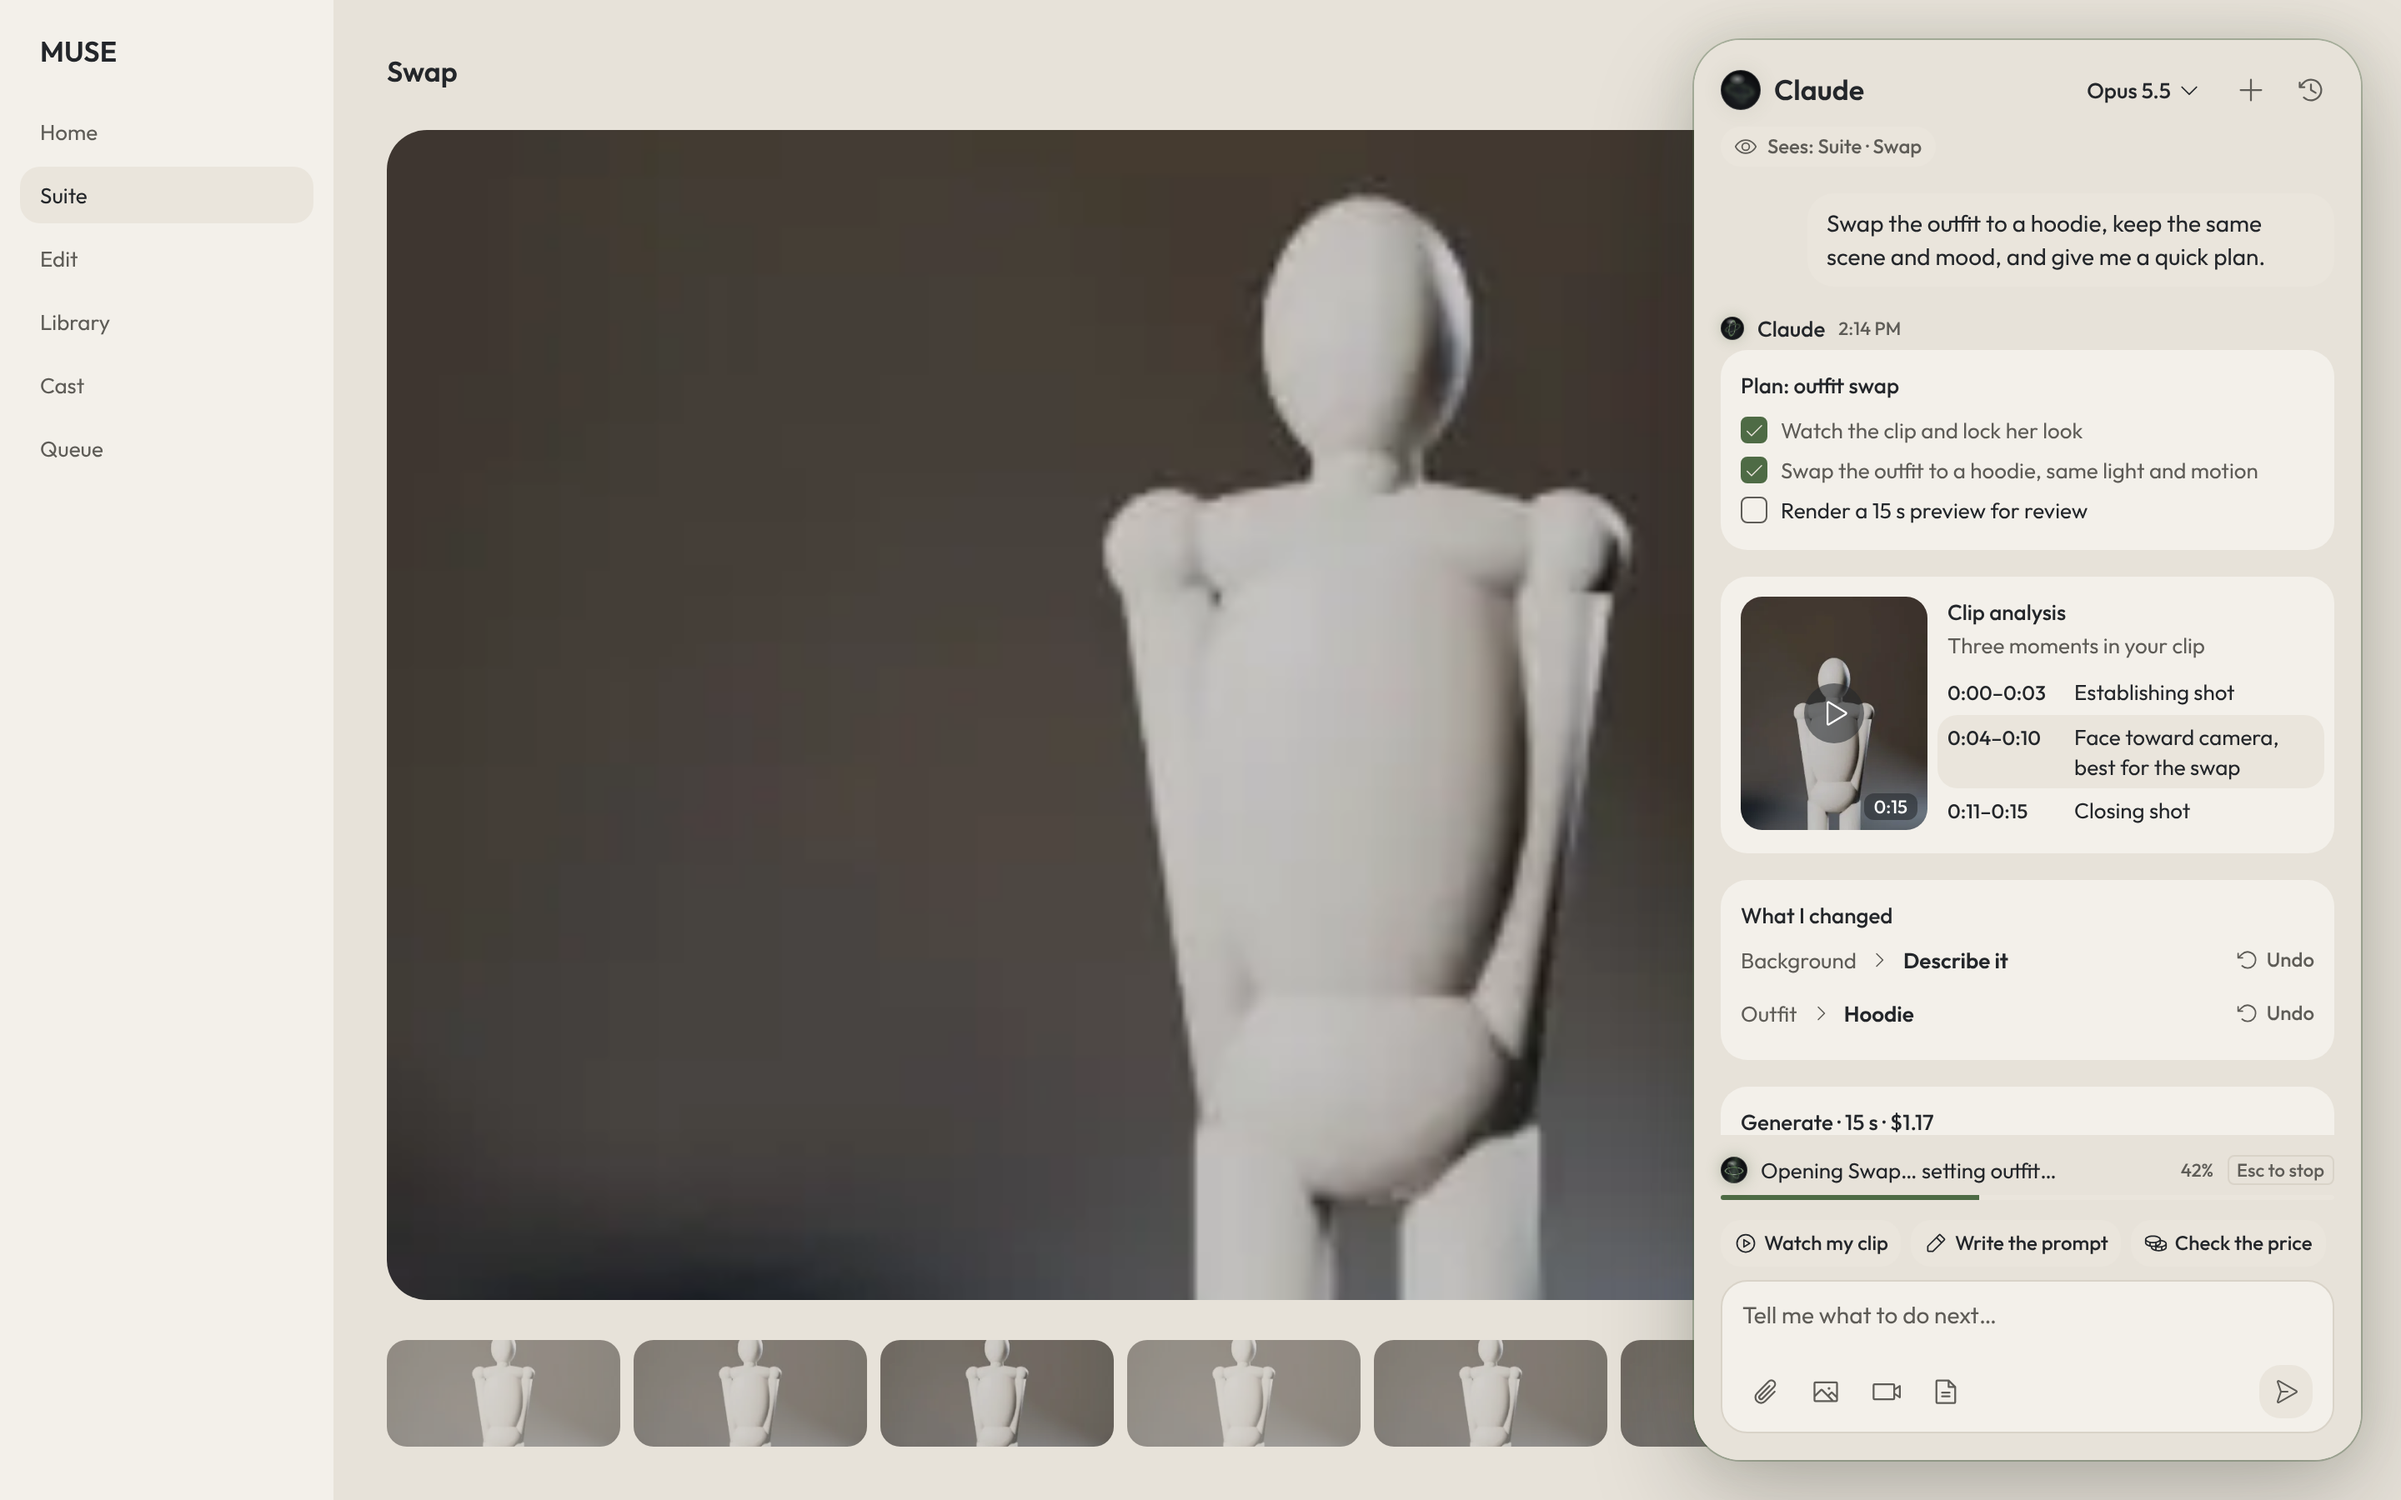
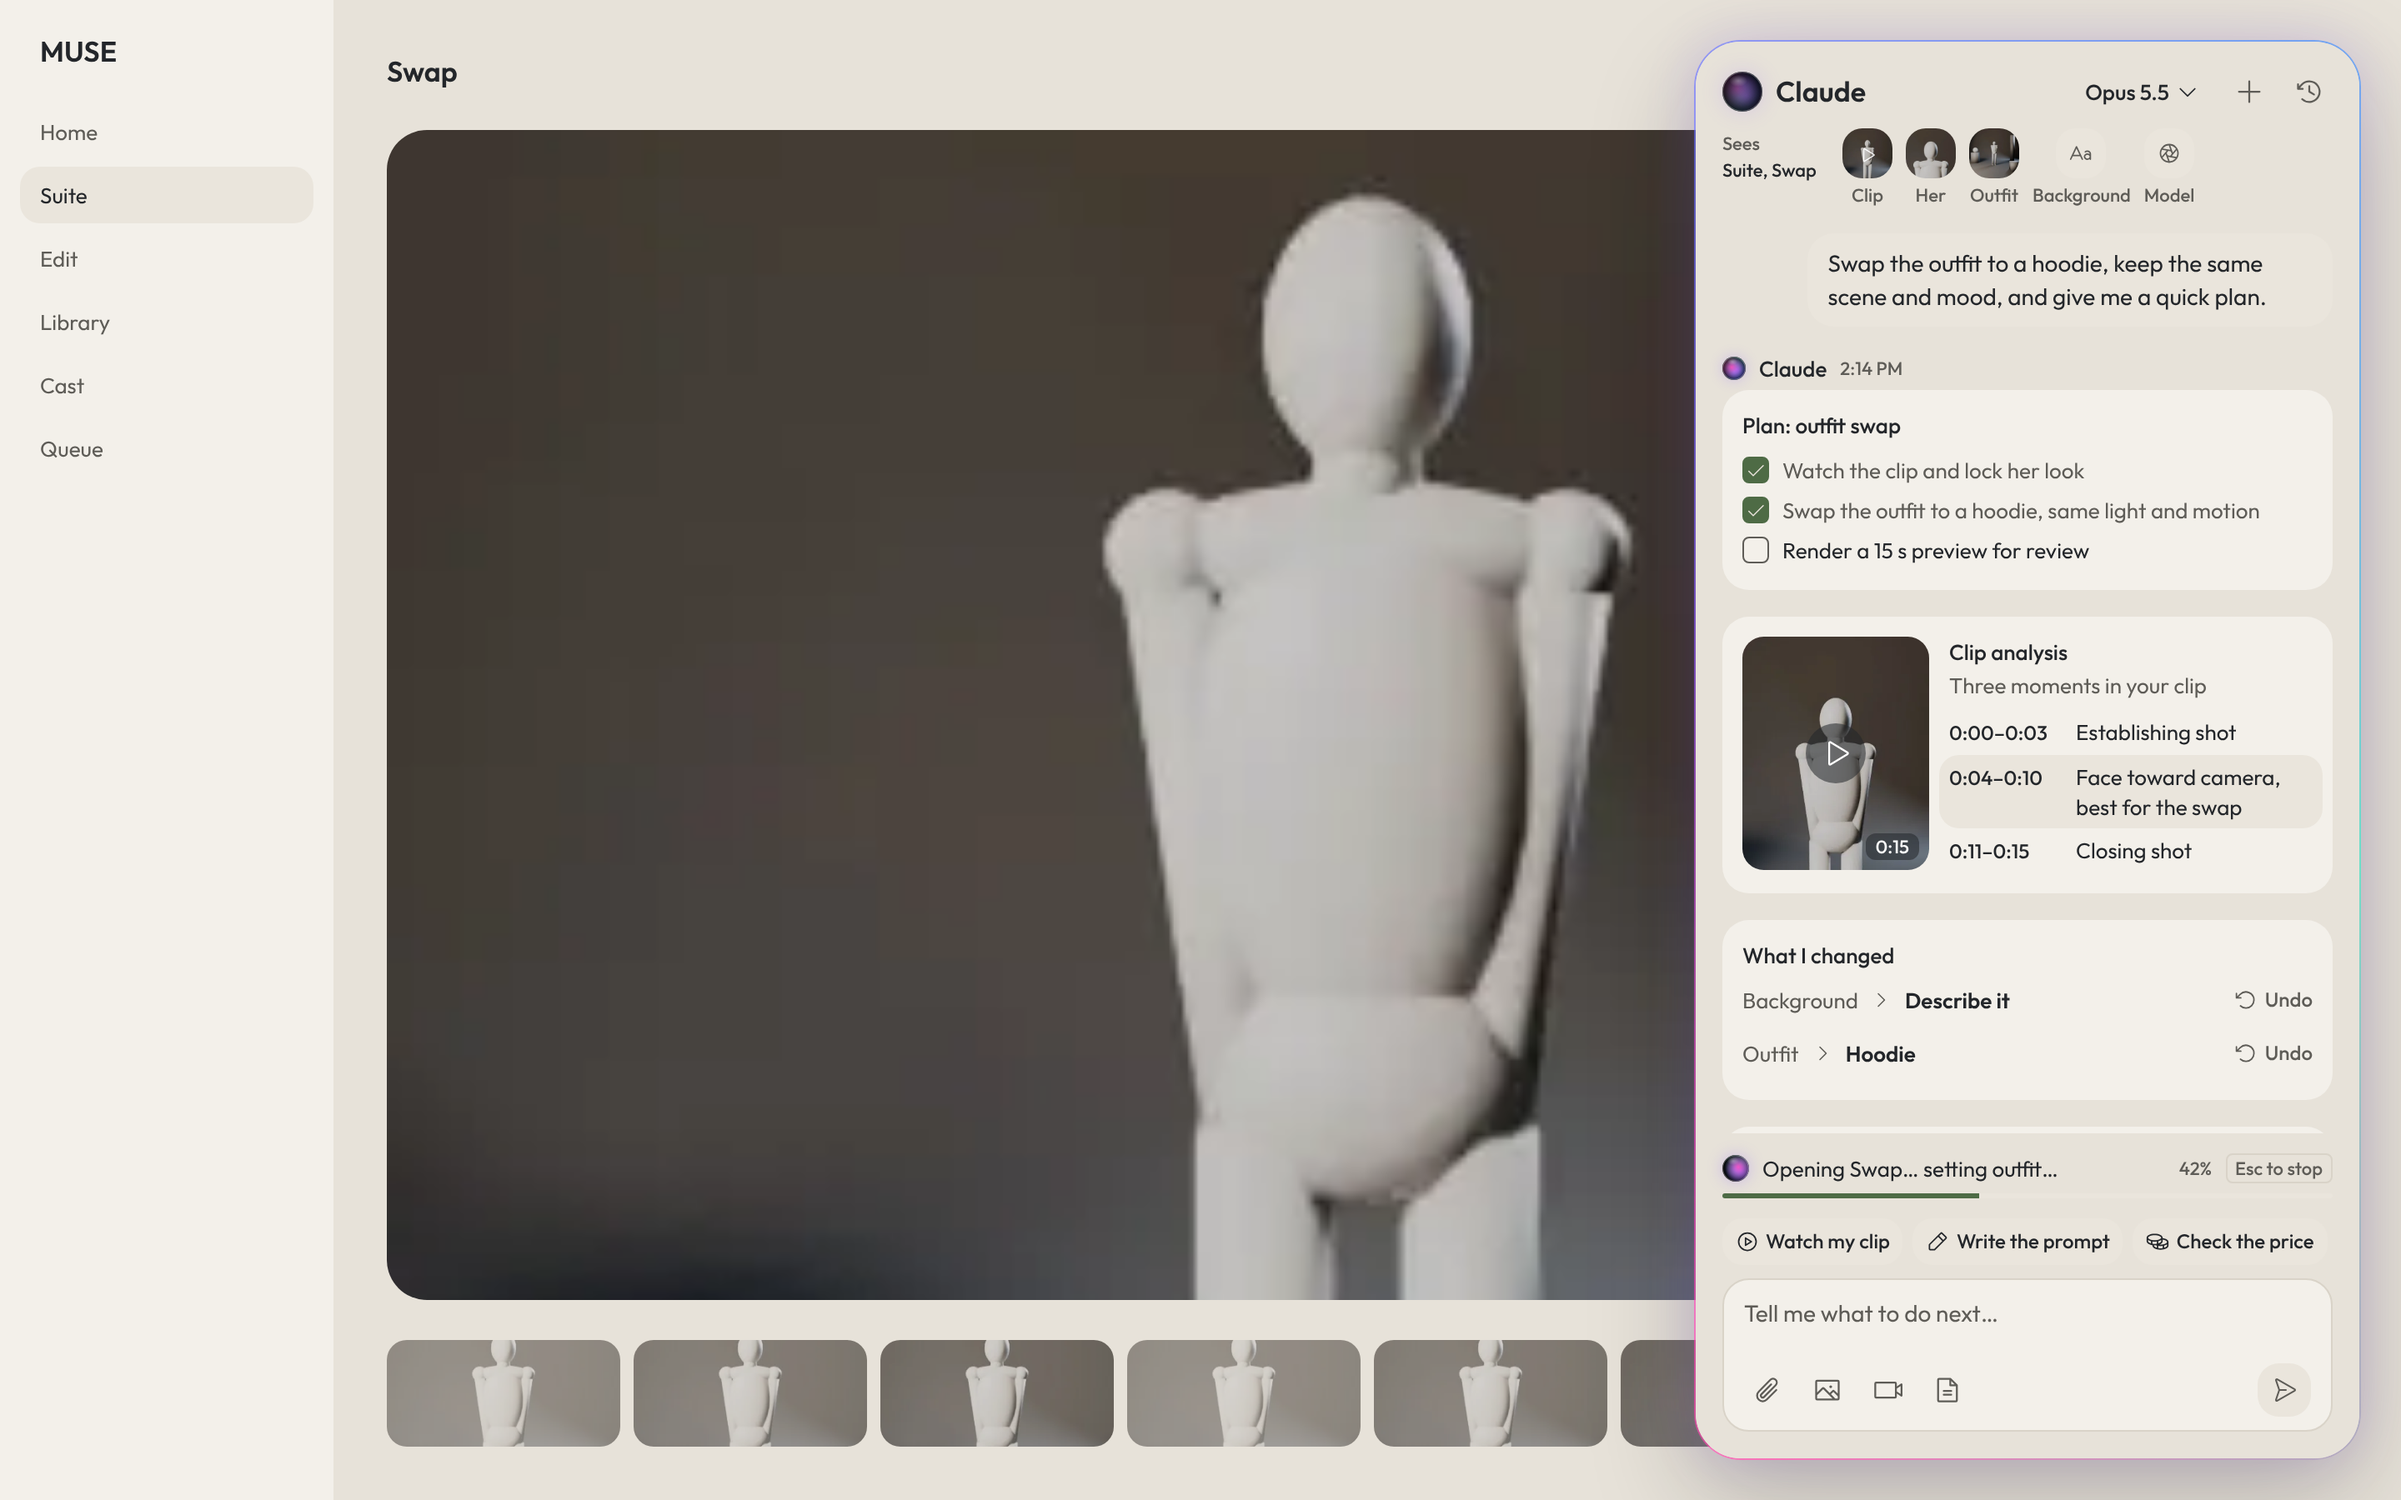
Claude panel: live context strip (what Claude sees, from the composer's screen), mockups with the liquid orb and flowing edge
Claude-Session: https://claude.ai/code/session_01Py2rxmq8ao4jRp3XB912nE

diff --git a/design/direction/claude_panel.py b/design/direction/claude_panel.py
@@ -37,24 +37,27 @@ ORB_STATES = {
     "waiting":   dict(rot=250, band=.70, glow=.45, blur=1.6, label="Waiting for you", note="Steady glow, slow pulse"),
     "error":     dict(rot=200, band=.80, glow=.30, blur=1.0, label="Error", note="Red tint", red=True),
 }
+# The orb, second pass (owner, 2026-11-12): multicolour liquid light in dark glass (MuseCore ClaudeOrbLiquid; the
+# animated version is design/direction/orb_preview.py). Here a still: four soft blobs added together, the halo, the rim.
+BLOBS = {"idle": [(-.25, -.15, .35), (.2, .2, .3), (.1, -.3, .25), (-.2, .3, .2)],
+         "writing": [(-.2, -.1, .8), (.25, .1, .75), (0, .3, .6), (.1, -.3, .55)],
+         "operating": [(.2, -.1, .8), (.35, .15, .75), (.05, .05, .6), (.3, -.3, .55)],
+         "waiting": [(-.1, .1, .9), (.15, -.05, .85), (0, .25, .7), (-.15, -.25, .6)],
+         "error": [(-.1, .1, .7), (.2, -.15, .6), (0, .25, .5), (-.2, -.2, .45)]}
+PAL = ["255,61,168", "142,91,255", "59,130,255", "47,224,192"]
+ERRPAL = ["255,77,61", "255,138,43", "217,48,43", "255,179,71"]
 def orb(size, state, k):
     st = ORB_STATES[state]
-    red = st.get("red")
-    # Error: the whole glass takes the danger tint and the band goes grey and still, so it reads as an error even where
-    # the theme's accent is itself red (Editorial).
-    c = "#B9B6B0" if red else ACCENT[k]
-    halo = DANGER[k] if red else ACCENT[k]
-    g = st["glow"]
-    fill = f"background:radial-gradient(circle at 50% 62%,{DANGER[k]}cc,#2a0d0c 75%);" if red else ""
-    def ring(rot, alpha, w):
-        return (f'<i style="position:absolute;inset:6%;border-radius:50%;transform:rotate({rot}deg);opacity:{alpha};filter:blur({size*st["blur"]/30:.2f}px);'
-                f'background:radial-gradient(ellipse 48% 20% at 50% 54%,transparent {62-w}%,{c} 74%,#fff9 78%,{c} 82%,transparent {90+w}%)"></i>')
-    sweep = (f'<i style="position:absolute;inset:0;border-radius:50%;background:linear-gradient(100deg,transparent 30%,{c}66 50%,transparent 70%);mix-blend-mode:screen"></i>'
-             if st.get("sweep") else "")
-    return (f'<span class="orb" role="img" aria-label="Claude" style="{fill}width:{size}px;height:{size}px;box-shadow:0 0 {size*.55:.0f}px {halo}{int(g*255):02x},inset 0 0 0 .5px rgba(255,255,255,.16)">'
-            f'{ring(st["rot"] % 180 - 20, st["band"] * (.45 if red else 1), 0)}{ring(st["rot"] % 180 + 40, st["band"] * .45, 4) if not red else ""}{sweep}'
-            f'<i style="position:absolute;left:22%;top:10%;width:40%;height:26%;border-radius:50%;background:radial-gradient(closest-side,rgba(255,255,255,.45),transparent)"></i></span>')
-ORB_CSS = ".orb{position:relative;display:inline-block;flex:none;border-radius:50%;overflow:hidden;background:radial-gradient(circle at 50% 62%,#24272c,#0a0b0d 72%)}"
+    pal = ERRPAL if st.get("red") else PAL
+    halo = "255,90,60" if st.get("red") else "150,110,255"
+    layers = ",".join(f"radial-gradient(circle at {50 + x * 50:.0f}% {50 + y * 50:.0f}%,rgba({c},{a}) 0%,rgba({c},{a * .45:.2f}) 28%,rgba({c},0) 62%)"
+                      for (x, y, a), c in zip(BLOBS[state], pal))
+    return (f'<span class="orb" role="img" aria-label="Claude" style="width:{size}px;height:{size}px;'
+            f'box-shadow:0 0 {size * .55:.0f}px rgba({halo},{.15 + .6 * st["glow"]:.2f}),inset 0 0 {size * .18:.1f}px rgba(0,0,0,.6),inset 0 0 0 .6px rgba(255,255,255,.35)">'
+            f'<i style="position:absolute;inset:0;border-radius:50%;background:{layers};mix-blend-mode:plus-lighter"></i>'
+            f'<i style="position:absolute;left:18%;top:8%;width:44%;height:30%;border-radius:50%;background:radial-gradient(closest-side,rgba(255,255,255,.32),transparent)"></i></span>')
+ORB_CSS = ".orb{position:relative;display:inline-block;flex:none;border-radius:50%;overflow:hidden;background:radial-gradient(circle at 50% 62%,#17181d,#040406 75%)}"
+CTX_CSS = ".ctx{display:flex;gap:8px;align-items:flex-start}.ctx .pg{display:flex;flex-direction:column;gap:2px;padding-top:2px;width:64px;flex:none}.tile{display:flex;flex-direction:column;align-items:center;gap:3px}.tile b{width:30px;height:30px;border-radius:var(--rp);background:var(--field) center/cover;display:grid;place-items:center;color:var(--ink2);position:relative}"
 
 
 def css(t, k):
@@ -100,8 +103,18 @@ def css(t, k):
 .ph{{font:400 14px/20px "{f}";color:var(--ink2);min-height:40px}}
 .send{{width:32px;height:32px;border-radius:calc(var(--rk) * .8);background:var(--field);color:var(--ink2);display:grid;place-items:center;margin-left:auto}}
 :root{{--pos:{POSITIVE[k]}}}
-"""+ORB_CSS
+"""+ORB_CSS+CTX_CSS
 
+
+def context_strip():
+    """What Claude sees, live: the page as a small label, then 30 pt thumbnails with tiny labels (ClaudeContextStrip)."""
+    still, face, look = R.img(R.PV / "angles/ms.webp"), R.img(R.PV / "angles/cu.webp"), R.img(R.PV / "angles/full.webp")
+    def tile(label, bg=None, icon=None, play=False):
+        inner = (I(icon, 14) if icon else "") + (f'<span style="position:absolute;color:#fff">{I("play", 10, "#fff")}</span>' if play else "")
+        style = f'background-image:url({bg})' if bg else ""
+        return f'<span class="tile"><b style="{style}">{inner}</b><span class="t11 ink2">{label}</span></span>'
+    tiles = tile("Clip", still, play=True) + tile("Her", face) + tile("Outfit", look) + tile("Background", icon="text-aa") + tile("Model", icon="aperture")
+    return f'<div class="ctx"><span class="pg"><span class="t11 ink2">Sees</span><span class="t11">Suite, Swap</span></span>{tiles}</div>'
 
 def panel(t, k):
     check = I("check", 12)
@@ -115,7 +128,7 @@ def panel(t, k):
   <div class="row gap2">{orb(24, "idle", k)}<div class="t17 grow">Claude</div>
    <div class="menu">Opus 5.5{I("caret-down", 14)}</div>
    <div class="ib" title="New chat">{I("plus", 18)}</div><div class="ib" title="History">{I("clock-counter-clockwise", 18)}</div></div>
-  <div><span class="pill">{I("eye", 14)}Sees: Suite · Swap</span></div>
+  {context_strip()}
  </div>
  <div class="feed">
   <div class="you">Swap the outfit to a hoodie, keep the same scene and mood, and give me a quick plan.</div>
@@ -167,7 +180,9 @@ def floating(t, k):
     shadow = "0 24px 64px rgba(0,0,0,.55)" if k == "b" else "0 24px 64px rgba(20,18,16,.22)"
     return (app_backdrop(t) +
             f'<div style="position:absolute;right:24px;top:24px;bottom:24px;width:400px;border-radius:calc(var(--rc) + 4px);overflow:hidden;'
-            f'background:var(--canvas);box-shadow:{shadow},0 0 0 1px {c}59,0 0 28px {c}26">{panel(t, k)}</div>'
+            f'border:1.5px solid transparent;background:linear-gradient(var(--canvas),var(--canvas)) padding-box,'
+            f'conic-gradient(from 200deg,#FF3DA8aa,#8E5BFFaa,#3B82FFaa,#2FE0C0aa,#FF3DA8aa) border-box;'
+            f'box-shadow:{shadow},0 0 28px rgba(150,110,255,.22)">{panel(t, k)}</div>'
             f'<div class="t11 ink2" style="position:absolute;right:40px;bottom:30px;opacity:.0">resize</div>')
 
 def closed(t, k):
@@ -190,7 +205,6 @@ def main():
     OUT.mkdir(parents=True, exist_ok=True)
     pages = [(f"panel-{k}", panel, k, 400, 1040) for k in ("b", "a", "c")]
     pages += [(f"float-{k}", floating, k, 1440, 900) for k in ("b", "a", "c")]
-    pages += [(f"orb-states-{k}", states, k, 760, 200) for k in ("b", "a", "c")]
     pages += [("closed-b", closed, "b", 1440, 900)]
     with tempfile.TemporaryDirectory() as tmp:
         spec = []
